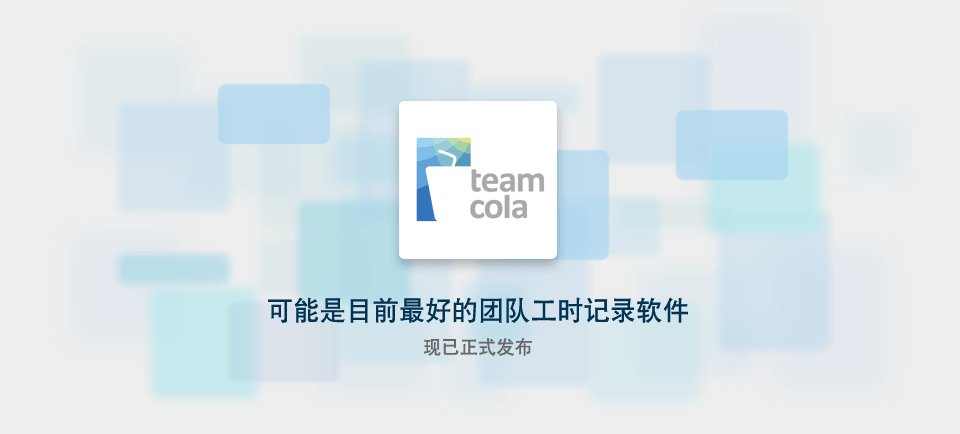
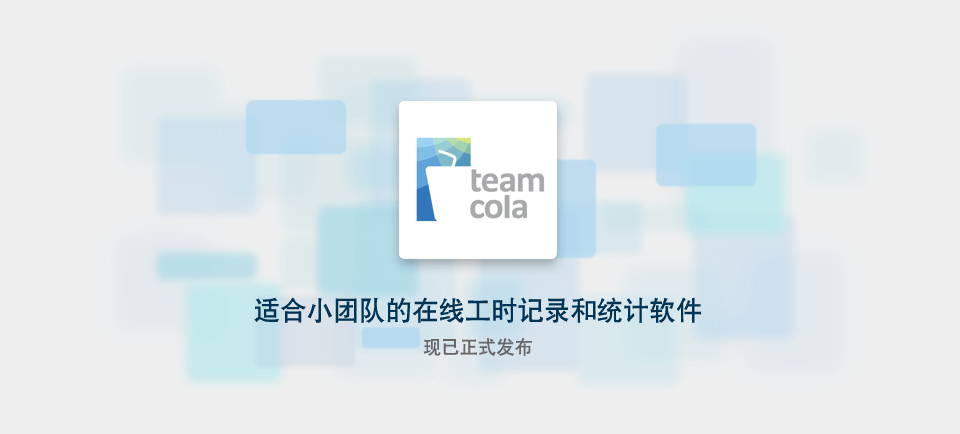
update something about teamcola

diff --git a/index.html b/index.html
@@ -43,7 +43,7 @@
 		
 			<div class="slide clearfix">
 				<ul id="player">
-					<li class="cur"><a href="http://teamcola.com/" target="_blank"><img src="assets/img/slide-teamcola.png" alt="团队工作史，可能是目前最好的在线工时记录软件" /></a></li>
+					<li class="cur"><a href="http://teamcola.com/" target="_blank"><img src="assets/img/slide-teamcola.png" alt="TeamCola,　适合小团队的在线工时记录和统计软件" /></a></li>
 					<li><a href="http://mag.mycolorway.com/" target="_blank"><img src="assets/img/slide1.jpg" alt="百家，让ipad杂志活起来" /></a></li>
 					<li><a href="http://bit.ly/zhengming" target="_blank"><img src="assets/img/slide2.jpg" alt="争鸣，ipad杂志预览工具" /></a></li>
 					<li><a href="#" target="_blank"><img src="assets/img/slide3.jpg" alt="关注移动互联，服务企业用户" /></a></li>
@@ -114,8 +114,8 @@
 					</div>
 					<div id="blueprint">
 						<h3>TeamCola</h3>
-						<span>可能是目前最好的团队工时记录软件</span><br />
-						<a href="http://teamcola.com" target="_blank"><img width="200" height="150" src="assets/img/other-app-desc3.png" alt="门神的故事" /></a>
+						<span>适合小团队的在线工时记录和统计软件</span><br />
+						<a href="http://teamcola.com" target="_blank"><img width="200" height="150" src="assets/img/other-app-desc3.png" alt="TeamCola, 适合小团队的在线工时记录和统计软件" /></a>
 					</div>
 				</div>
 			</div>

diff --git a/apps.html b/apps.html
@@ -44,7 +44,7 @@
 			
 			<div class="slide clearfix">
 				<ul id="player">
-					<li class="cur"><a href="http://teamcola.com/" target="_blank"><img src="assets/img/slide-teamcola.png" alt="团队工作史，可能是目前最好的在线工时记录软件" /></a></li>
+					<li class="cur"><a href="http://teamcola.com/" target="_blank"><img src="assets/img/slide-teamcola.png" alt="TeamCola, 适合小团队的在线工时记录和统计软件" /></a></li>
 					<li><a href="http://mag.mycolorway.com/" target="_blank"><img src="assets/img/slide1.jpg" alt="百家，让ipad杂志活起来" /></a></li>
 					<li><a href="http://bit.ly/zhengming" target="_blank"><img src="assets/img/slide2.jpg" alt="争鸣，ipad杂志预览工具" /></a></li>
 					<li><a href="#" target="_blank"><img src="assets/img/slide3.jpg" alt="关注移动互联，服务企业用户" /></a></li>
